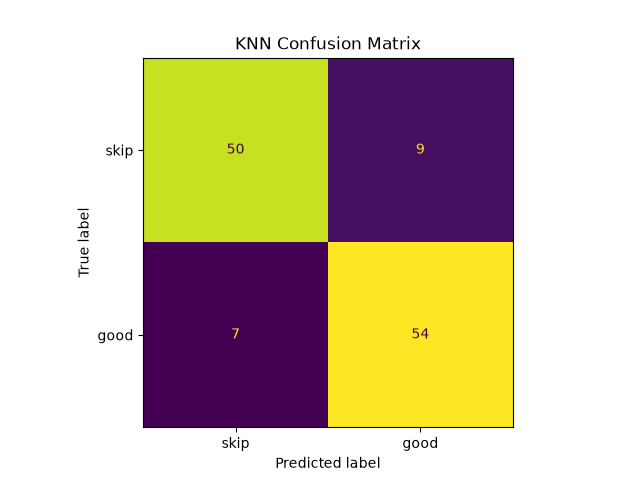
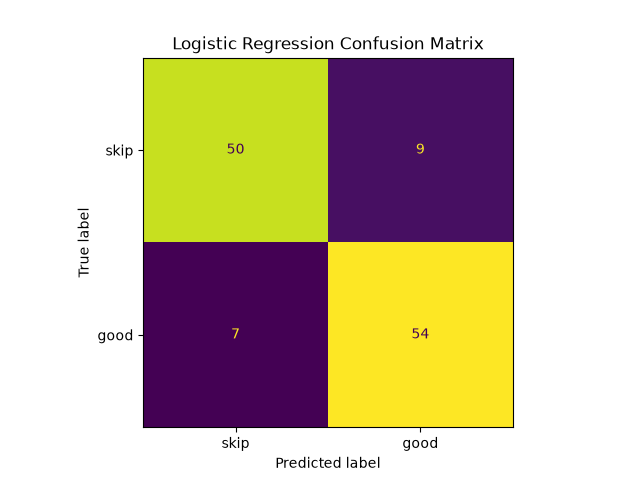
fix more things

Changed region(s): [[0.2812, 0.0625, 0.75, 0.125]]

diff --git a/assignments_03/warmup_03.py b/assignments_03/warmup_03.py
@@ -1,7 +1,10 @@
+
+import os
 import numpy as np
 import pandas as pd
 import matplotlib.pyplot as plt
 import joblib
+
 from sklearn.model_selection import train_test_split, cross_val_score
 from sklearn.preprocessing import StandardScaler, OneHotEncoder
 from sklearn.compose import ColumnTransformer
@@ -9,13 +12,25 @@ from sklearn.pipeline import Pipeline
 from sklearn.neighbors import KNeighborsClassifier
 from sklearn.linear_model import LogisticRegression
 from sklearn.metrics import (
-    accuracy_score, precision_score, recall_score, f1_score,
-    confusion_matrix, ConfusionMatrixDisplay, classification_report,
+    accuracy_score,
+    precision_score,
+    recall_score,
+    f1_score,
+    confusion_matrix,
+    ConfusionMatrixDisplay,
+    classification_report,
 )
 
-
+# Load the dataset
 df = pd.read_csv("weather_classification.csv")
-numeric = ["temperature_2m_max", "temperature_2m_min", "precipitation_sum", "wind_speed_10m_max"]
+
+numeric = [
+    "temperature_2m_max",
+    "temperature_2m_min",
+    "precipitation_sum",
+    "wind_speed_10m_max",
+]
+
 X = df[numeric + ["season"]]
 y = df["good_for_running"]
 
@@ -23,96 +38,189 @@ X_train, X_test, y_train, y_test = train_test_split(
     X, y, test_size=0.2, random_state=42, stratify=y
 )
 
+# Scaling numeric features
 scaler = StandardScaler()
 X_train_scaled = scaler.fit_transform(X_train[numeric])
 X_test_scaled = scaler.transform(X_test[numeric])
 
-print(X_train_scaled.mean(axis=0))
+print("Scaled training feature means:", X_train_scaled.mean(axis=0))
 # Fit on X_train only to prevent data leakage from the test set.
 
-encoder = OneHotEncoder(sparse_output=False)
+# One-hot encoding the season feature
+encoder = OneHotEncoder(sparse_output=False, handle_unknown="ignore")
 
+encoded_train = encoder.fit_transform(X_train[["season"]])
+encoded_test = encoder.transform(X_test[["season"]])
 
-encoded = encoder.fit_transform(df[["season"]])
-print(encoded.shape)
-print(encoder.get_feature_names_out())
-# The single season column became 4 columns because there are 4 unique categories, each represented by its own binary column.
+print("Encoded training shape:", encoded_train.shape)
+print("Season features:", encoder.get_feature_names_out(["season"]))
+# The season column becomes separate binary columns for its categories.
+# The encoder is fit on training data only.
 
-numeric_features = ["temperature_2m_max", "temperature_2m_min", "precipitation_sum", "wind_speed_10m_max"]
+# Preprocessing pipeline with numeric and categorical features
+numeric_features = numeric
 categorical_features = ["season"]
 
 preprocess = ColumnTransformer(
     transformers=[
         ("num", StandardScaler(), numeric_features),
-        ("cat", OneHotEncoder(handle_unknown="ignore"), categorical_features),
+        (
+            "cat",
+            OneHotEncoder(handle_unknown="ignore"),
+            categorical_features,
+        ),
     ]
 )
 
-model = Pipeline(
+preprocessing_model = Pipeline(
     steps=[
         ("preprocess", preprocess),
         ("classifier", LogisticRegression(max_iter=1000)),
     ]
 )
 
-model.fit(X_train, y_train)
+preprocessing_model.fit(X_train, y_train)
 
-print(model.score(X_test, y_test))
-# The pipeline automatically preprocesses the numeric and categorical features before fitting the model and making predictions.
+print(
+    "Preprocessing pipeline test accuracy:",
+    accuracy_score(y_test, preprocessing_model.predict(X_test)),
+)
+# The pipeline fits preprocessing on training data and applies the same
+# transformations to test data before making predictions.
 
+# KNN Q1: Scaled KNN with n_neighbors=5
 knn_scaled = Pipeline([
     ("scaler", StandardScaler()),
     ("knn", KNeighborsClassifier(n_neighbors=5)),
 ])
+
 knn_scaled.fit(X_train[numeric], y_train)
+knn_scaled_predictions = knn_scaled.predict(X_test[numeric])
 
+print(
+    "KNN Q1 test accuracy:",
+    accuracy_score(y_test, knn_scaled_predictions),
+)
+print("KNN Q1 classification report:")
+print(classification_report(y_test, knn_scaled_predictions))
 
-for k in [1, 3, 5, 7, 9, 11, 15, 21]:
+# KNN Q2: Compare k values using cross-validation
+k_values = [1, 3, 5, 7, 9, 11, 15, 21]
+cv_results = {}
+
+for k in k_values:
     knn = Pipeline([
         ("scaler", StandardScaler()),
         ("knn", KNeighborsClassifier(n_neighbors=k)),
     ])
+
     scores = cross_val_score(knn, X_train[numeric], y_train, cv=5)
-    print(f"k={k:2d}:  mean={scores.mean():.3f}  std={scores.std():.3f}")
-# Choose k=11 because it has the highest mean cross-validation accuracy (0.942).
+    cv_results[k] = scores.mean()
 
+    print(f"k={k:2d}: mean={scores.mean():.3f}  std={scores.std():.3f}")
 
+best_k = max(cv_results, key=cv_results.get)
+print(f"Best k based on mean cross-validation accuracy: {best_k}")
+# In this run, k=11 has the highest mean cross-validation accuracy (0.942).
+
+# KNN Q3: Compare KNN with and without scaling
 knn_raw = KNeighborsClassifier(n_neighbors=5)
 knn_raw.fit(X_train[numeric], y_train)
-print(classification_report(y_test, knn_scaled.predict(X_test[numeric])))
-print("Without scaling:", accuracy_score(y_test, knn_raw.predict(X_test[numeric])))
-print("With scaling:", accuracy_score(y_test, knn_scaled.predict(X_test[numeric])))
-# Scaling helped, improving accuracy from 0.925 to 0.958; scaling matters because KNN uses distances, and features with larger numeric ranges can otherwise dominate those distances.
+knn_raw_predictions = knn_raw.predict(X_test[numeric])
 
+print(
+    "KNN Q3 accuracy without scaling:",
+    accuracy_score(y_test, knn_raw_predictions),
+)
+print(
+    "KNN Q3 accuracy with scaling:",
+    accuracy_score(y_test, knn_scaled_predictions),
+)
+# Scaling improves test accuracy in this run from 0.925 to 0.958.
+# KNN uses distances, so features with larger numeric ranges can dominate
+# distances when features are not scaled.
+
+# Logistic Regression using scaled numeric features
 model = Pipeline([
     ("scaler", StandardScaler()),
     ("logreg", LogisticRegression(max_iter=1000)),
 ])
+
 model.fit(X_train[numeric], y_train)
-print("Test accuracy:", accuracy_score(y_test, model.predict(X_test[numeric])))
-print("Precision:", precision_score(y_test, model.predict(X_test[numeric]), pos_label=1))
-print("Recall:", recall_score(y_test, model.predict(X_test[numeric]), pos_label=1))
-print("F1:", f1_score(y_test, model.predict(X_test[numeric]), pos_label=1))
+logreg_predictions = model.predict(X_test[numeric])
+
+print(
+    "Logistic Regression test accuracy:",
+    accuracy_score(y_test, logreg_predictions),
+)
+print(
+    "Precision:",
+    precision_score(y_test, logreg_predictions, pos_label=1),
+)
+print(
+    "Recall:",
+    recall_score(y_test, logreg_predictions, pos_label=1),
+)
+print(
+    "F1:",
+    f1_score(y_test, logreg_predictions, pos_label=1),
+)
 
 logreg = model.named_steps["logreg"]
+
+print("Logistic Regression coefficients:")
 for name, coef in zip(numeric, logreg.coef_[0]):
     print(f"{name:20s}: {coef:+.2f}")
-    # Higher wind speed and precipitation push most strongly toward "skip," which matches the intuition that windy and rainy weather is less suitable for running.
 
-probabilities = model.predict_proba(X_test[numeric])[:, 1]   # probability of "good"
-print(probabilities[:5].round(2))
-# A probability near 0.5 indicates the model is uncertain whether the day is good for running.
+# Positive coefficients push predictions toward class 1 ("good");
+# negative coefficients push predictions toward class 0 ("skip").
+# In this run, precipitation and wind speed have negative coefficients,
+# so higher values push predictions toward "skip."
 
-cm = confusion_matrix(y_test, model.predict(X_test[numeric]))
-disp = ConfusionMatrixDisplay(confusion_matrix=cm, display_labels=["skip", "good"])
+# Predicted probabilities
+probabilities = model.predict_proba(X_test[numeric])[:, 1]
+print("First five predicted probabilities:", probabilities[:5].round(2))
+# A probability near 0.5 indicates uncertainty about whether the day
+# is good for running.
+
+# Logistic Regression confusion matrix
+cm = confusion_matrix(y_test, logreg_predictions, labels=[0, 1])
+disp = ConfusionMatrixDisplay(
+    confusion_matrix=cm,
+    display_labels=["skip", "good"],
+)
+
 disp.plot(colorbar=False)
 plt.title("Logistic Regression Confusion Matrix")
+
+# With labels ordered as [skip, good]:
+# cm[0, 1] = false positives: predicted good, actually skip
+# cm[1, 0] = false negatives: predicted skip, actually good
+false_positives = cm[0, 1]
+false_negatives = cm[1, 0]
+
+print("False positives:", false_positives)
+print("False negatives:", false_negatives)
+# In this run, there are 9 false positives and 7 false negatives.
+# False positives may matter more for a running app because they
+# recommend running when conditions are unsuitable.
+
+os.makedirs("outputs", exist_ok=True)
 plt.savefig("outputs/logreg_confusion_matrix.png")
 plt.show()
-# The model made 9 false positives and 7 false negatives. False positives may matter more for a running app because they recommend running when conditions are unsuitable.
+
+# Save and reload the Logistic Regression model
+os.makedirs("models", exist_ok=True)
 joblib.dump(model, "models/warmup_model.pkl")
 print("Model saved.")
+
 loaded = joblib.load("models/warmup_model.pkl")
-assert (loaded.predict(X_test[numeric]) == model.predict(X_test[numeric])).all()
+assert (
+    loaded.predict(X_test[numeric]) == model.predict(X_test[numeric])
+).all()
+
 print("Predictions match.")
-# Without the scaler, raw features would be passed to LogisticRegression, potentially producing incorrect predictions because the model was trained on scaled data.
+
+# Without the scaler, raw features would be passed to LogisticRegression,
+# potentially producing incorrect predictions because the model was
+# trained on scaled data.

diff --git a/assignments_03/predict.py b/assignments_03/predict.py
@@ -1,3 +1,4 @@
+
 import json
 import joblib
 import pandas as pd
@@ -29,21 +30,24 @@ days = pd.DataFrame([
 predictions = model.predict(days)
 probabilities = model.predict_proba(days)
 
+good_index = list(model.classes_).index(1)
+
 for i, row in days.iterrows():
     label = "good" if predictions[i] == 1 else "skip"
-    good_probability = probabilities[i][list(model.classes_).index(1)]
+    good_probability = probabilities[i][good_index]
 
     print(f"\nDay {i + 1}:")
     print(row.to_dict())
     print("Prediction:", label)
     print(f"Probability of good: {good_probability:.1%}")
+
+
 """
-1. The borderline day received a probability of [insert probability] for
-   being good for running. A probability near 0.50 indicates uncertainty.
-   If the model predicts 0.52, I would treat the prediction cautiously
-   because the model is only slightly more likely to classify the day as
-   good than skip. I would consider the actual weather conditions before
-   recommending a run.
+1. The borderline day received a probability of 27.3% for being good
+   for running. The model predicted skip. A probability below 0.50
+   indicates that the model considers skip more likely than good.
+   I would consider the actual weather conditions before recommending
+   a run.
 
 2. If predict.py runs before train_classifier.py, the saved model file
    will not exist, and joblib.load() will raise a FileNotFoundError.
